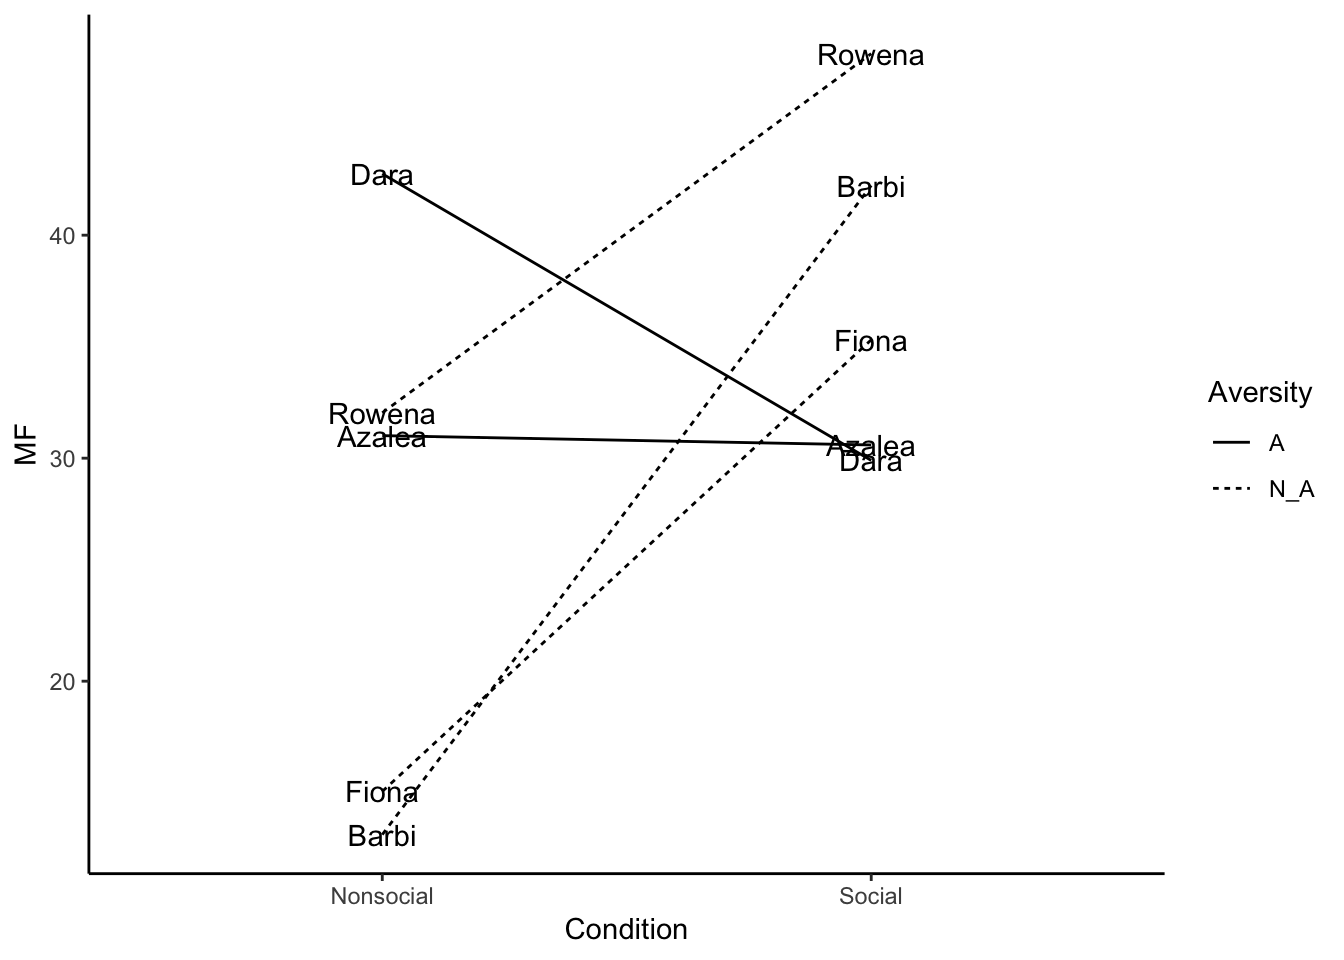
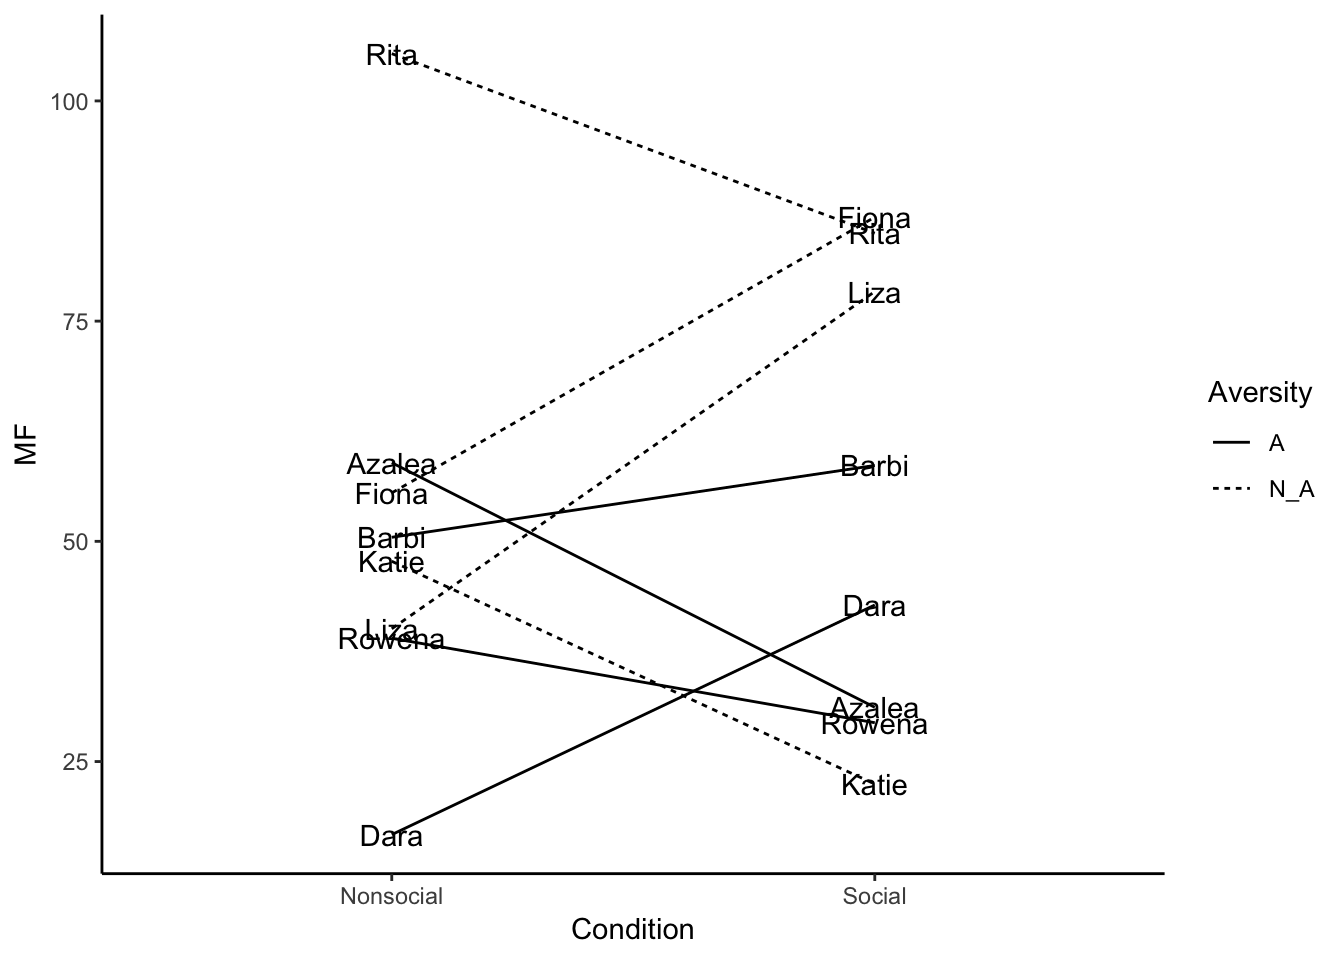
add dotted lines

diff --git a/docs/examples.html b/docs/examples.html
@@ -413,15 +413,17 @@ div.tocify {
 
 <div id="examples-for-how-to-turn-data-into-different-graphs" class="section level2">
 <h2>Examples for how to turn data into different graphs</h2>
-<pre class="r"><code># add &quot;each&quot; to keep both copies of the names together 
-Names &lt;- rep(c(&quot;Dara&quot;,&quot;Azalea&quot;,&quot;Barbi&quot;,&quot;Rowena&quot;,&quot;Fiona&quot;),each=2)
-MF &lt;- rnorm(10,45,25) 
-Condition &lt;- rep(c(&quot;Social&quot;,&quot;Nonsocial&quot;),5)
+<pre class="r"><code>library(ggplot2)
+
+# add &quot;each&quot; to keep both copies of the names together 
+Names &lt;- rep(c(&quot;Dara&quot;,&quot;Azalea&quot;,&quot;Barbi&quot;,&quot;Rowena&quot;,&quot;Fiona&quot;,&quot;Katie&quot;,&quot;Liza&quot;,&quot;Rita&quot;),each=2)
+MF &lt;- rnorm(16,50,25) 
+Condition &lt;-rep(c(&quot;Social&quot;,&quot;Nonsocial&quot;),8)
 # &quot;times=&quot; to repeat how many times you want A and N_A to be repeated 
-Aversity &lt;- rep(c(&quot;A&quot;,&quot;N_A&quot;),times=c(4,6))
+Aversity &lt;- rep(c(&quot;A&quot;,&quot;N_A&quot;),times=c(8,8))
 plot_df&lt;- data.frame(Names, MF, Condition) 
 
-ggplot(plot_df, aes(x=Condition, y=MF, group=Names, 
+ggplot(plot_df, aes(x=Condition, y=MF, group=Names,
                     linetype=Aversity))+ 
   geom_line()+
   geom_text(label=Names)+
